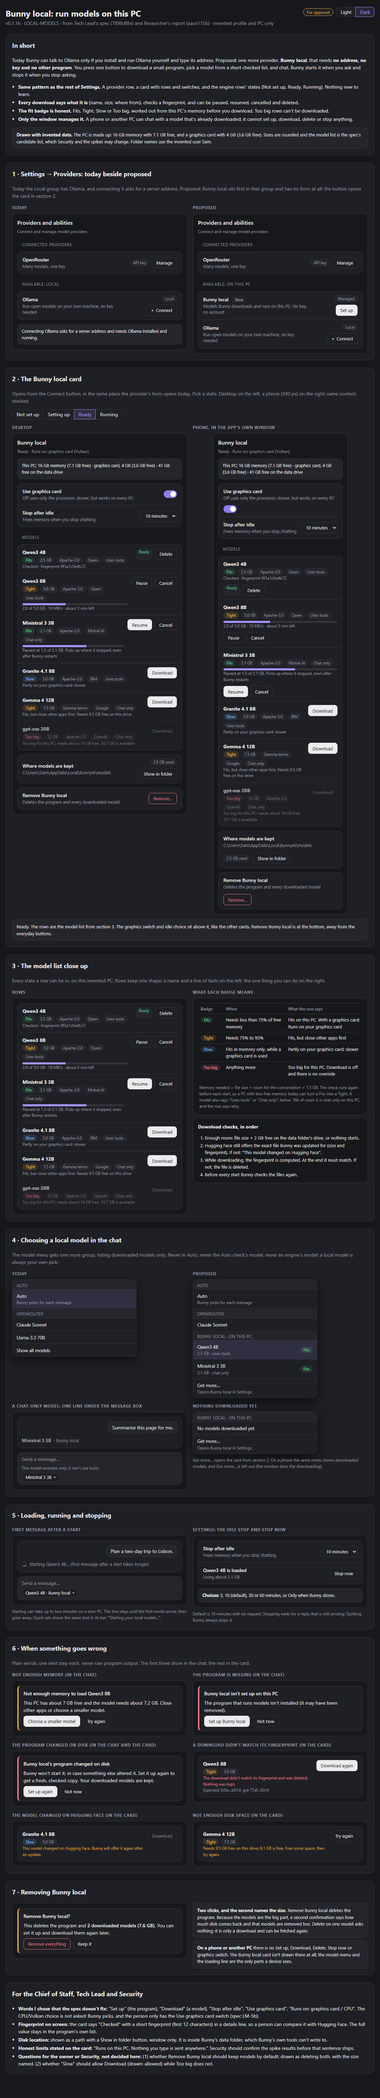
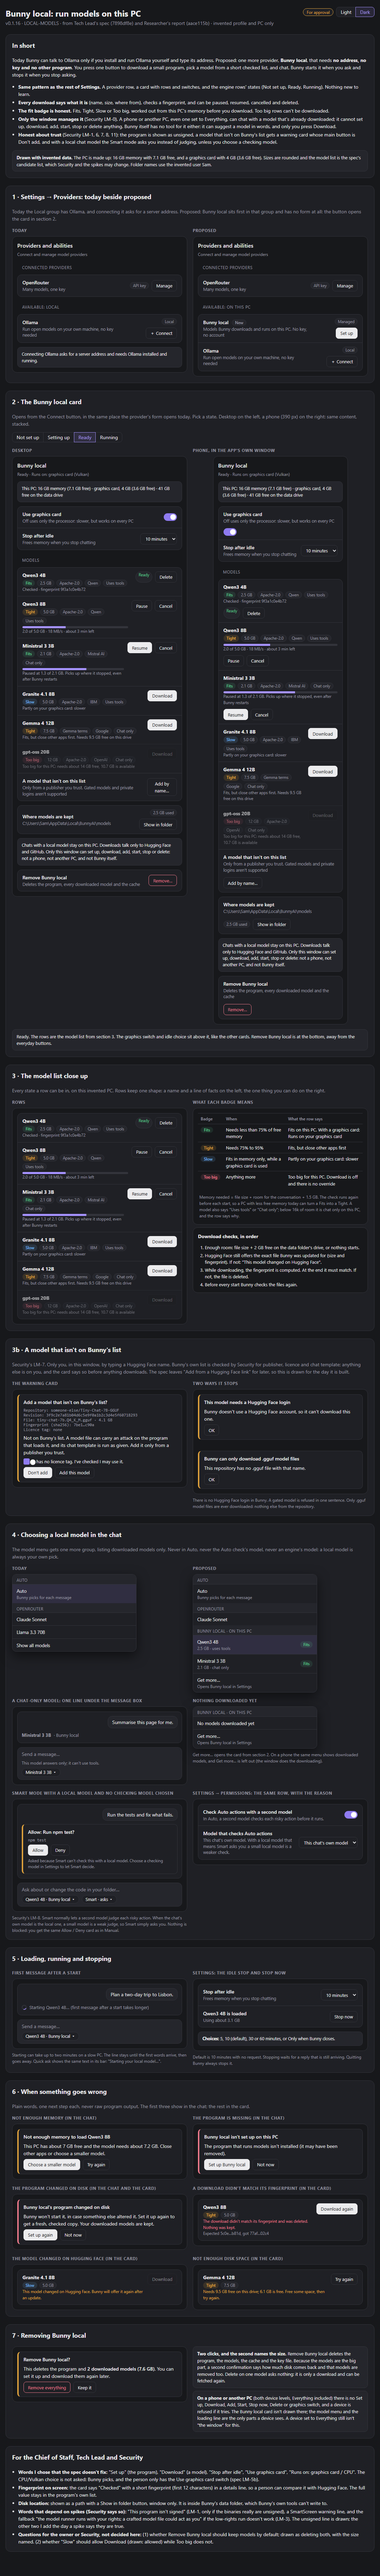
Design: LOCAL-MODELS v2 with Security's conditions (window only, unsigned runtime, model not on the list, Smart asks with a local model, privacy wording)

diff --git a/docs/design/review-v016-local-models/index.html b/docs/design/review-v016-local-models/index.html
@@ -86,7 +86,8 @@ table.t{border-collapse:collapse;width:100%;font-size:13px}table.t td,table.t th
 <li><b>Same pattern as the rest of Settings.</b> A provider row, a card with rows and switches, and the engine rows' states (Not set up, Ready, Running). Nothing new to learn.</li>
 <li><b>Every download says what it is</b> (name, size, where from), checks a fingerprint, and can be paused, resumed, cancelled and deleted.</li>
 <li><b>The fit badge is honest.</b> Fits, Tight, Slow or Too big, worked out from this PC's memory before you download. Too big rows can't be downloaded.</li>
-<li><b>Only the window manages it.</b> A phone or another PC can chat with a model that's already downloaded; it cannot set up, download, delete or stop anything.</li>
+<li><b>Only the window manages it</b> (Security LM-0). A phone or another PC, even one set to Everything, can chat with a model that's already downloaded; it cannot set up, download, add, start, stop or delete anything. Bunny itself has no tool for it either: it can suggest a model in words, and only you press Download.</li>
+<li><b>Honest about trust</b> (Security LM-1, 6, 7, 8, 11): the program is shown as unsigned, a model that isn't on Bunny's list gets a warning card whose main button is Don't add, and with a local chat model the Smart mode asks you instead of judging, unless you choose a checking model.</li>
 </ul>
 <div class="note"><b>Drawn with invented data.</b> The PC is made up: 16 GB memory with 7.1 GB free, and a graphics card with 4 GB (3.6 GB free). Sizes are rounded and the model list is the spec's candidate list, which Security and the spikes may change. Folder names use the invented user Sam.</div>
 </section>
@@ -137,6 +138,16 @@ table.t{border-collapse:collapse;width:100%;font-size:13px}table.t td,table.t th
 </section>
 
 <section>
+<h2>3b · A model that isn't on Bunny's list</h2>
+<p class="dim">Security's LM-7. Only you, in this window, by typing a Hugging Face name. Bunny's own list is checked by Security for publisher, licence and chat template; anything else is on you, and the card says so before anything downloads. The spec leaves "Add from a Hugging Face link" for later, so this is drawn for the day it is built.</p>
+<div class="cols">
+<div class="cell"><h3>The warning card</h3><div class="app" id="nl"></div></div>
+<div class="cell"><h3>Two ways it stops</h3><div class="app" id="nl2"></div>
+<p class="cap">There is no Hugging Face login in Bunny. A gated model is refused in one sentence. Only .gguf model files are ever downloaded: nothing else from the repository.</p></div>
+</div>
+</section>
+
+<section>
 <h2>4 · Choosing a local model in the chat</h2>
 <p class="dim">The model menu gets one more group, listing downloaded models only. Never in Auto, never the Auto check's model, never an engine's model: a local model is always your own pick.</p>
 <div class="cols">
@@ -146,6 +157,11 @@ table.t{border-collapse:collapse;width:100%;font-size:13px}table.t td,table.t th
 <div class="cols">
 <div class="cell"><h3>A chat-only model: one line under the message box</h3><div class="app" id="cp-chat"></div></div>
 <div class="cell"><h3>Nothing downloaded yet</h3><div class="menu" id="mn-empty"></div><p class="cap">Get more… opens the card from section 2. On a phone the same menu shows downloaded models, and Get more… is left out (the window does the downloading).</p></div>
+</div>
+<div class="cols">
+<div class="cell"><h3>Smart mode with a local model and no checking model chosen</h3><div class="app" id="sm"></div>
+<p class="cap">Security's LM-8. Smart normally lets a second model judge each risky action. When the chat's own model is the local one, a small model is a weak judge, so Smart simply asks you. Nothing is blocked: you get the same Allow / Deny card as in Manual.</p></div>
+<div class="cell"><h3>Settings → Permissions: the same row, with the reason</h3><div class="app" id="sm2"></div></div>
 </div>
 </section>
 
@@ -176,8 +192,8 @@ table.t{border-collapse:collapse;width:100%;font-size:13px}table.t td,table.t th
 <h2>7 · Removing Bunny local</h2>
 <div class="cols">
 <div class="cell"><div class="app" id="rm"></div></div>
-<div class="cell"><div class="note"><b>Two clicks, and the second names the size.</b> Remove Bunny local deletes the program. Because the models are the big part, a second confirmation says how much disk comes back and that models are removed too. Delete on one model asks nothing: it is only a download and can be fetched again.</div>
-<div class="note"><b>On a phone or another PC</b> there is no Set up, Download, Delete, Stop now or graphics switch. The Bunny local card isn't drawn there at all; the model menu and the loading line are the only parts a device sees.</div></div>
+<div class="cell"><div class="note"><b>Two clicks, and the second names the size.</b> Remove Bunny local deletes the program, the models, the cache and the key file. Because the models are the big part, a second confirmation says how much disk comes back and that models are removed too. Delete on one model asks nothing: it is only a download and can be fetched again.</div>
+<div class="note"><b>On a phone or another PC</b> (both device levels, Everything included) there is no Set up, Download, Add, Start, Stop now, Delete or graphics switch, and a device is refused if it tries. The Bunny local card isn't drawn there; the model menu and the loading line are the only parts a device sees. A device set to Everything still isn't "the window" for this.</div></div>
 </div>
 </section>
 
@@ -187,7 +203,7 @@ table.t{border-collapse:collapse;width:100%;font-size:13px}table.t td,table.t th
 <li><b>Words I chose that the spec doesn't fix:</b> "Set up" (the program), "Download" (a model), "Stop after idle", "Use graphics card", "Runs on: graphics card / CPU". The CPU/Vulkan choice is not asked: Bunny picks, and the person only has the Use graphics card switch (spec LM-5b).</li>
 <li><b>Fingerprint on screen:</b> the card says "Checked" with a short fingerprint (first 12 characters) in a details line, so a person can compare it with Hugging Face. The full value stays in the program's own list.</li>
 <li><b>Disk location:</b> shown as a path with a Show in folder button, window only. It is inside Bunny's data folder, which Bunny's own tools can't write to.</li>
-<li><b>Honest limits stated on the card:</b> "Runs on this PC. Nothing you type is sent anywhere." Security should confirm the spike results before that sentence ships.</li>
+<li><b>Words that depend on spikes (Security says so):</b> "This program isn't signed" (LM-1, only if the binaries really are unsigned), a SmartScreen warning line, and the fallback "the model runner runs with your rights; a crafted model file could act as you" if the low-rights run doesn't work (LM-3). The unsigned line is drawn; the other two I add the day a spike says they are true.</li>
 <li><b>Questions for the owner or Security, not decided here:</b> (1) whether Remove Bunny local should keep models by default; drawn as deleting both, with the size named. (2) whether "Slow" should allow Download (drawn: allowed) while Too big does not.</li>
 </ul>
 </section>
@@ -231,12 +247,12 @@ const pcline=`<div class="note" style="font-size:12.5px">This PC: 16 GB memory (
 const foot=`<div class="grp">${row('Where models are kept','C:\\Users\\Sam\\AppData\\Local\\BunnyAI\\models','<span class="tag">2.5 GB used</span>'+btn('Show in folder'))}</div>`;
 const ST={
  none:{n:'Not set up. One button. The size and the place it comes from are on the card, because Bunny is about to download a program. Nothing is downloaded until the button is pressed.',h:()=>`<div class="appttl">Bunny local</div><div class="sub">Models Bunny downloads and runs on this PC. No key, no account</div>
-<div class="grp"><div class="steps"><b>Set up Bunny local</b><div class="dim" style="font-size:13px">Bunny downloads a 39 MB program (llama.cpp) from its GitHub releases, checks its fingerprint, and keeps it in its own folder. It runs only on this PC, and nothing you type is sent anywhere.</div><div class="meta">${tag('39 MB')}${tag('MIT licence')}${tag('github.com')}</div><div style="margin-top:6px">${btn('Set up Bunny local','primary')}</div></div></div>`},
+<div class="grp"><div class="steps"><b>Set up Bunny local</b><div class="dim" style="font-size:13px">Bunny downloads a 39 MB program (llama.cpp) from its GitHub releases, checks its fingerprint, and keeps it in its own folder. Chats with a local model stay on this PC, and downloads talk only to GitHub (the program) and Hugging Face (models).</div><div class="note warn" style="font-size:12.5px"><b>This program isn't signed.</b> llama.cpp doesn't sign its Windows files, so Windows may warn you. Bunny checks it against a fingerprint it shipped with instead, and checks it again before every start.</div><div class="meta">${tag('39 MB')}${tag('MIT licence')}${tag('github.com')}${tag('Not signed')}</div><div style="margin-top:6px">${btn('Set up Bunny local','primary')}</div></div></div>`},
  setup:{n:'Setting up: four plain steps with the real checks named. Cancel is always there; a cancelled set-up leaves nothing behind.',h:()=>`<div class="appttl">Bunny local</div><div class="sub">Setting up</div>
 <div class="grp"><div class="steps"><div class="step done"><span class="d">✓</span>Downloaded 39 MB from github.com</div><div class="step done"><span class="d">✓</span>Fingerprint checked: matches the one Bunny shipped with (a41c…7e09)</div><div class="step now"><span class="d">3</span>Unpacking: only the expected files are allowed</div><div class="step wait"><span class="d">4</span>Trying it on this PC</div><div class="prog"><i style="width:68%"></i></div><div>${btn('Cancel')}</div></div></div>`},
  ready:{n:'Ready. The rows are the model list from section 3. The graphics switch and idle choice sit above it, like the other cards. Remove Bunny local is at the bottom, away from the everyday buttons.',h:()=>`<div class="appttl">Bunny local</div><div class="sub">Ready · Runs on: graphics card (Vulkan)</div>${pcline}
 <div class="grp">${row('Use graphics card','Off uses only the processor: slower, but works on every PC',sw(true))}${row('Stop after idle','Frees memory when you stop chatting','<select class="sel"><option>10 minutes</option></select>')}</div>
-<div class="grph">Models</div><div class="grp">${models()}</div>${foot}<div class="grp">${row('Remove Bunny local','Deletes the program and every downloaded model',btn('Remove…','danger'))}</div>`},
+<div class="grph">Models</div><div class="grp">${models()}${row('A model that isn\'t on this list','Only from a publisher you trust. Gated models and private logins aren\'t supported',btn('Add by name…'))}</div>${foot}<div class="note" style="font-size:12.5px">Chats with a local model stay on this PC. Downloads talk only to Hugging Face and GitHub. Only this window can set up, download, add, start, stop or delete: not a phone, not another PC, and not Bunny itself.</div><div class="grp">${row('Remove Bunny local','Deletes the program, every downloaded model and the cache',btn('Remove…','danger'))}</div>`},
  run:{n:'Running. One extra row at the top while a model is loaded. Stop now is the same as the idle stop, only sooner.',h:()=>`<div class="appttl">Bunny local</div><div class="sub">Running Qwen3 4B, using about 3.1 GB</div>
 <div class="grp">${row('Qwen3 4B is loaded','Last used 2 minutes ago. Stops by itself after 10 idle minutes',btn('Stop now'))}${row('Runs on','Graphics card (Vulkan), 4 GB',tag('Graphics card'))}</div>
 <div class="grph">Models</div><div class="grp">${models().split('</div></div></div>').slice(0,2).join('</div></div></div>')}</div></div>`}
@@ -261,8 +277,14 @@ $('cp-chat').innerHTML=`<div class="chat"><div class="me">Summarise this page fo
 $('ld').innerHTML=`<div class="chat"><div class="me">Plan a two-day trip to Lisbon.</div><div class="status"><span class="spin"></span>Starting Qwen3 4B… (first message after a start takes longer)</div></div><div class="comp"><span class="dim">Send a message…</span><div><span class="chip">Qwen3 4B · Bunny local ▾</span></div></div>`;
 $('idle').innerHTML=`<div class="grp">${row('Stop after idle','Frees memory when you stop chatting','<select class="sel"><option>10 minutes</option></select>')}${row('Qwen3 4B is loaded','Using about 3.1 GB',btn('Stop now'))}</div><div class="note" style="font-size:12.5px"><b>Choices:</b> 5, 10 (default), 30 or 60 minutes, or Only when Bunny closes.</div>`;
 
-/* 6 errors */
 const al=(t,b,acts,cls='')=>`<div class="alert ${cls}"><b>${t}</b><div>${b}</div><div class="acts">${acts}</div></div>`;
+/* 3b not on list */
+$('nl').innerHTML=`<div class="alert warn"><b>Add a model that isn't on Bunny's list?</b><div class="mono">Repository: someone-else/Tiny-Chat-7B-GGUF<br>Revision: 3f9c2e7a81b04d6c5e9f0a1b2c3d4e5f60718293<br>File: tiny-chat-7b.Q4_K_M.gguf · 4.1 GB<br>Fingerprint (sha256): 7be1…c90a<br>Licence tag: none</div><div>Not on Bunny's list. A model file can carry an attack on the program that loads it, and its chat template is run as given. Add it only from a publisher you trust.</div><label class="step" style="gap:8px"><span role="img" aria-label="ticked" style="width:18px;height:18px;border-radius:4px;background:var(--accent);color:var(--btnfg);display:grid;place-items:center;font-size:12px;flex:none">✓</span><span style="font-size:13px">It has no licence tag. I've checked I may use it.</span></label><div class="acts">${btn("Don't add",'primary')}${btn('Add this model')}</div></div>`;
+$('nl2').innerHTML=al('This model needs a Hugging Face login','Bunny doesn\'t use a Hugging Face account, so it can\'t download this one.',btn('OK'),'warn')+`<div style="height:8px"></div>`+al('Bunny can only download .gguf model files','This repository has no .gguf file with that name.',btn('OK'),'warn');
+/* 4 smart asks */
+$('sm').innerHTML=`<div class="chat"><div class="me">Run the tests and fix what fails.</div><div class="alert warn"><b>Allow: Run npm test?</b><div class="mono">npm test</div><div class="acts">${btn('Allow','primary')}${btn('Deny')}</div><small class="dim">Asked because Smart can't check this with a local model. Choose a checking model in Settings to let Smart decide.</small></div></div><div class="comp"><span class="dim">Ask about or change the code in your folder…</span><div style="display:flex;gap:8px;flex-wrap:wrap"><span class="chip">Qwen3 4B · Bunny local ▾</span><span class="chip">Smart · asks ▾</span></div></div>`;
+$('sm2').innerHTML=`<div class="grp">${row('Check Auto actions with a second model','In Auto, a second model checks each risky action before it runs.',sw(true))}${row('Model that checks Auto actions','This chat\'s own model. With a local model that means Smart asks you: a small local model is a weaker check.','<select class="sel"><option>This chat\'s own model</option></select>')}</div>`;
+/* 6 errors */
 $('e1').innerHTML=al('Not enough memory to load Qwen3 8B','This PC has about 7 GB free and the model needs about 7.2 GB. Close other apps or choose a smaller model.',btn('Choose a smaller model','primary')+btn('Try again'),'warn');
 $('e2').innerHTML=al('Bunny local isn\'t set up on this PC','The program that runs models isn\'t installed (it may have been removed).',btn('Set up Bunny local','primary')+btn('Not now'));
 $('e3').innerHTML=al('Bunny local\'s program changed on disk','Bunny won\'t start it, in case something else altered it. Set it up again to get a fresh, checked copy. Your downloaded models are kept.',btn('Set up again','primary')+btn('Not now'));
